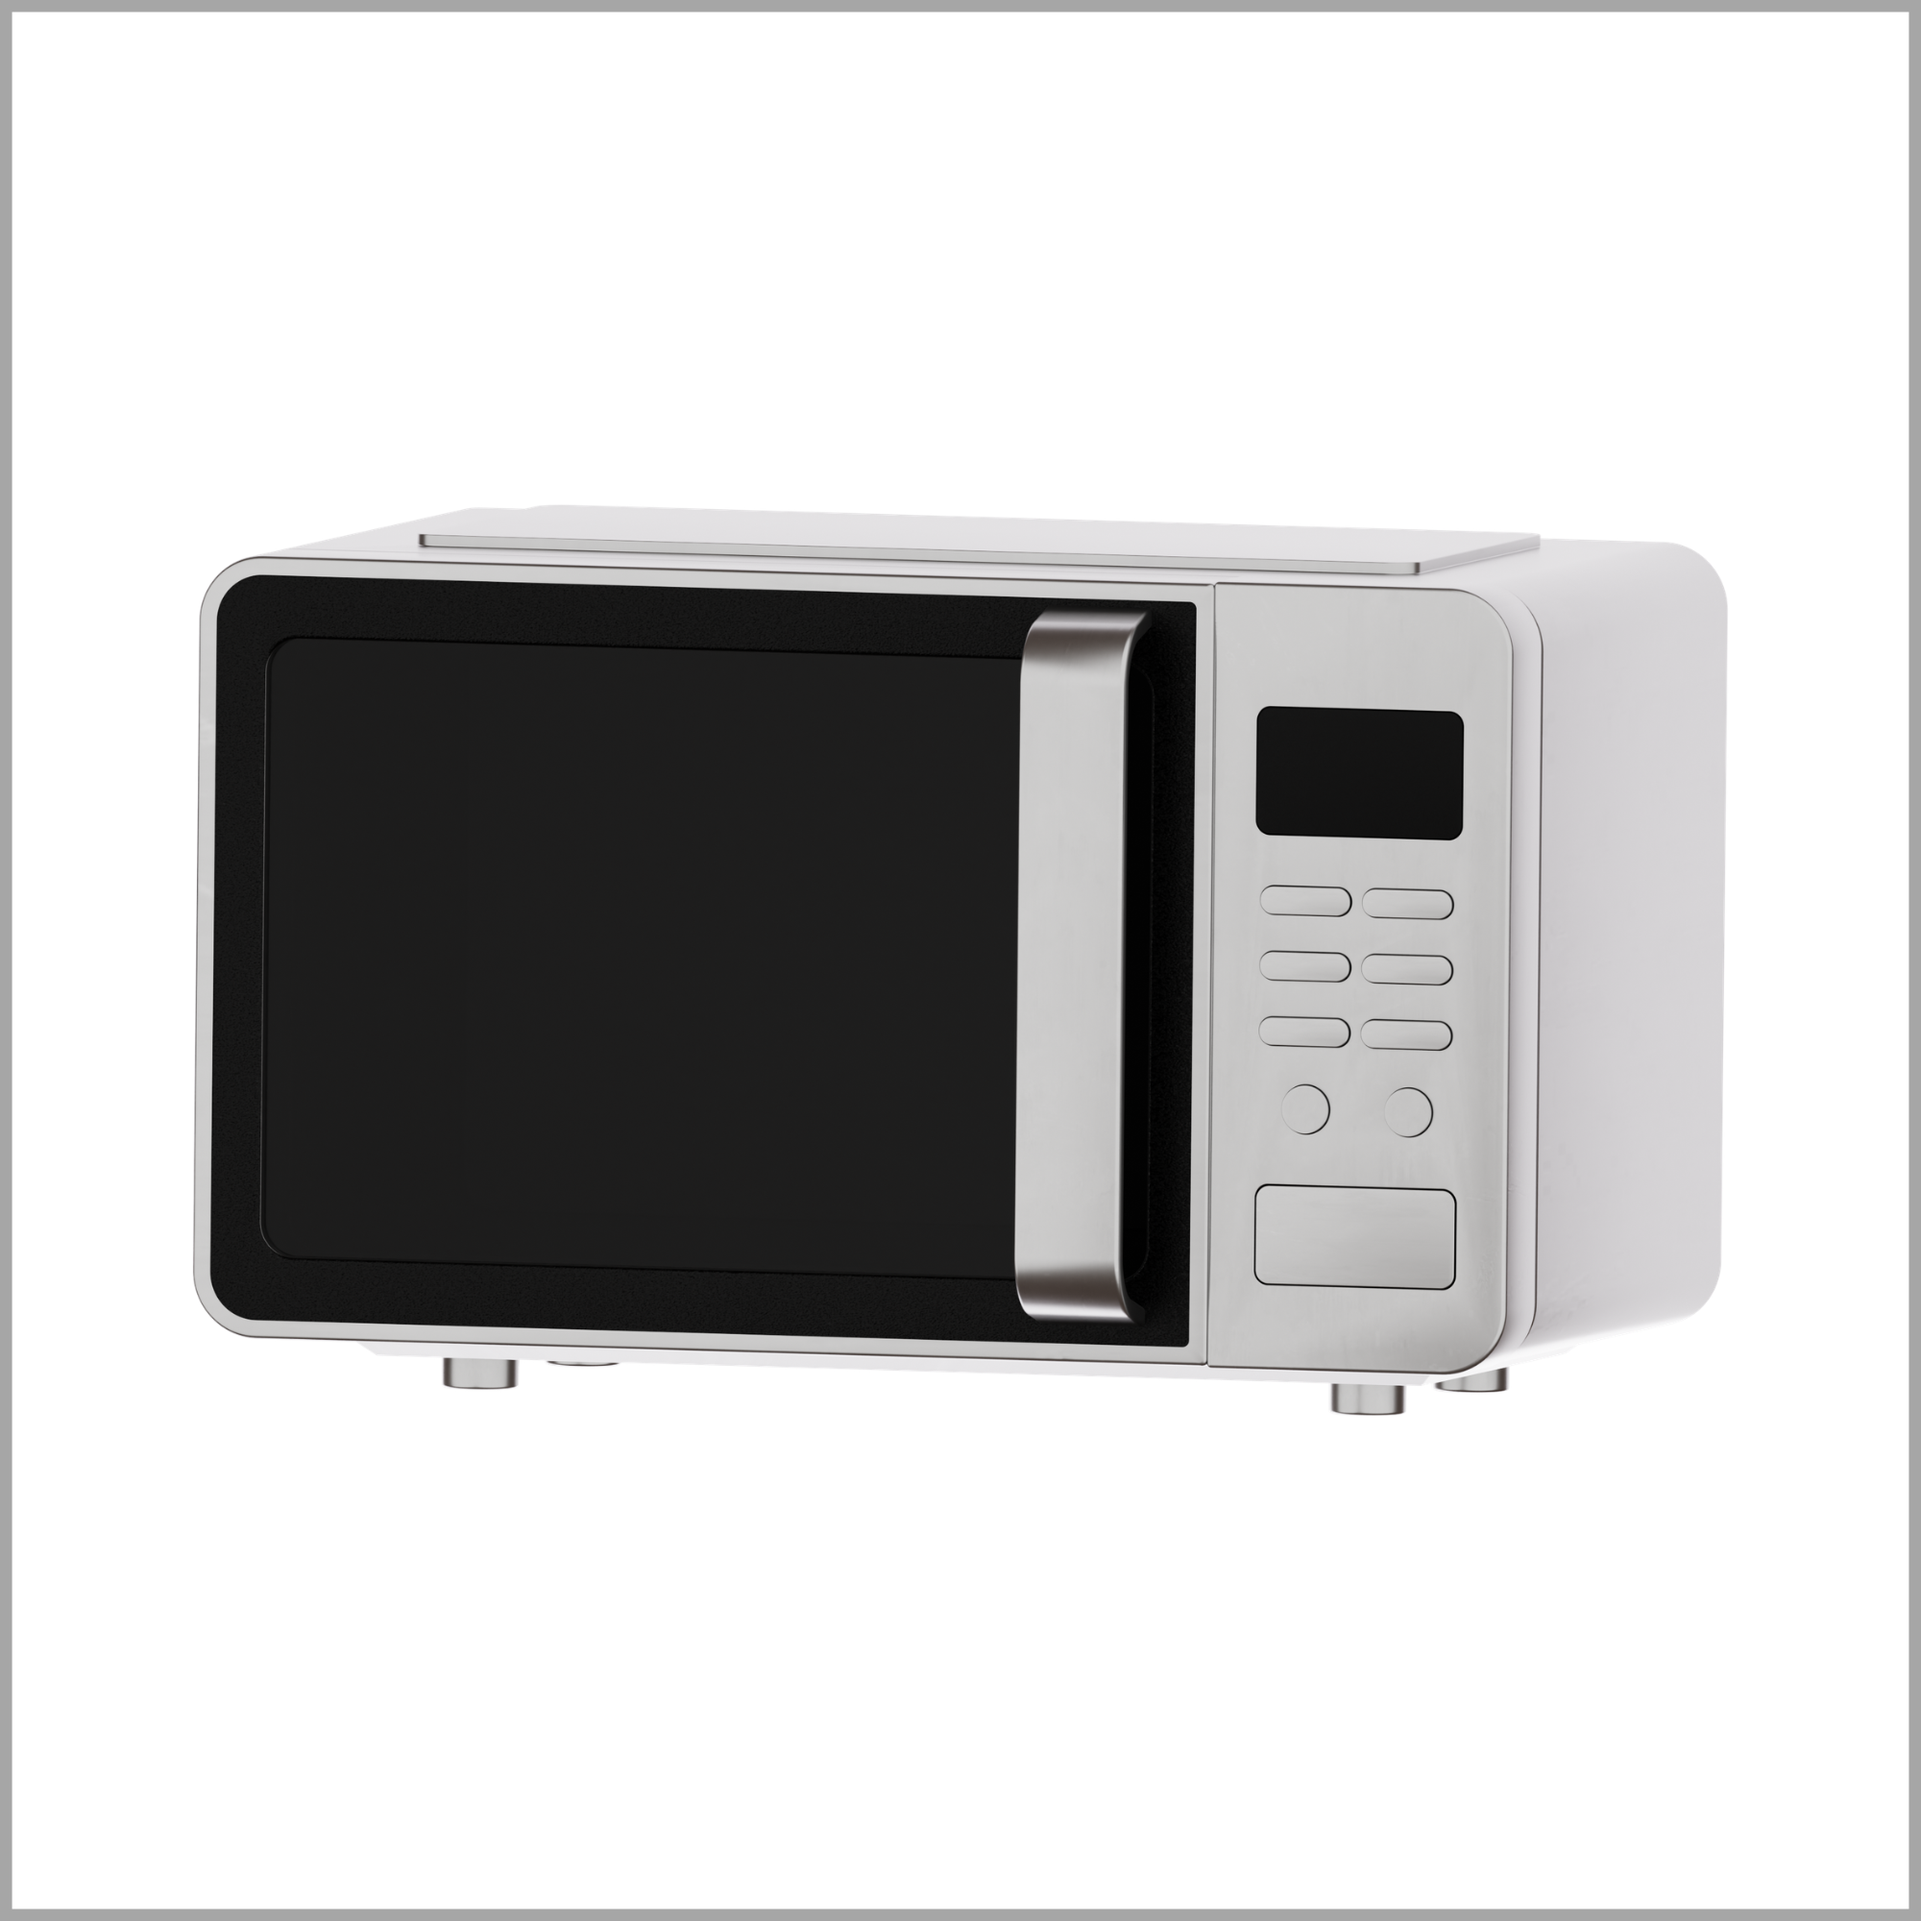
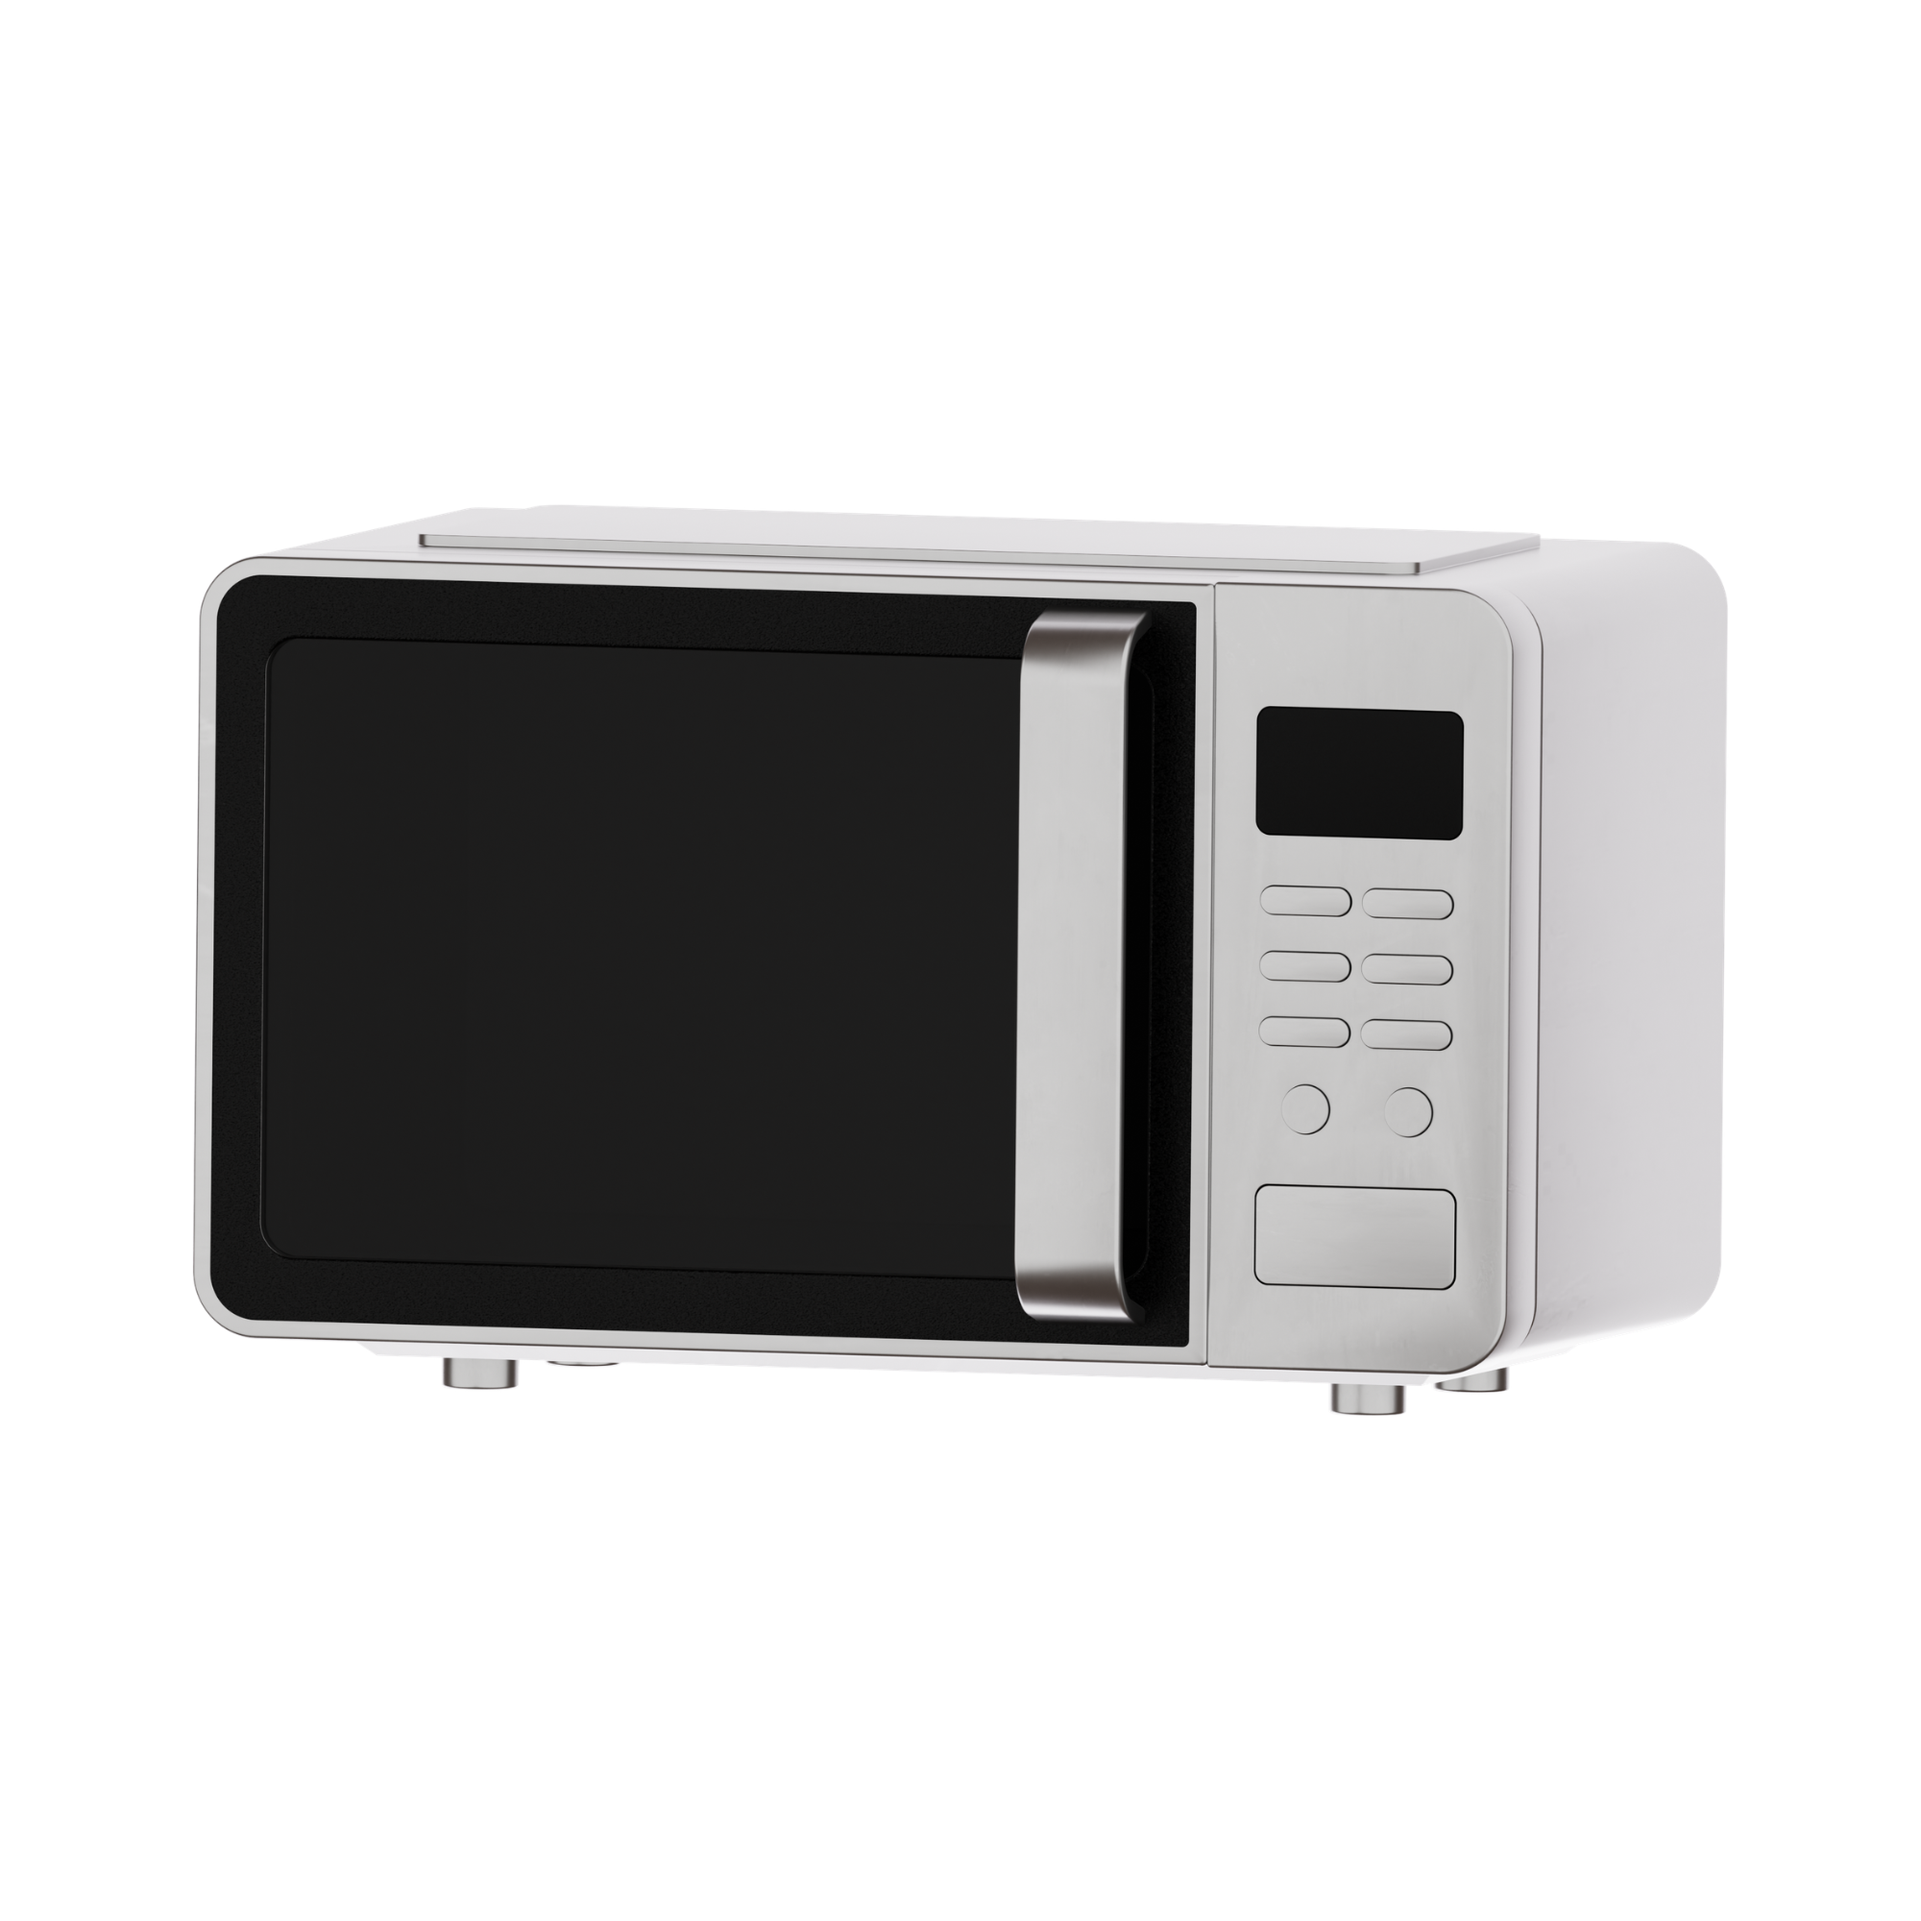
fgh
whatever

Changed region(s): [[0.0, 0.0, 1.0, 1.0]]

diff --git a/index.html b/index.html
@@ -25,7 +25,6 @@
         </div>
     </div>
         <hr class="h-flex">
-            <div class="container"></div>
     <div class="container">
         <div class="row justify-content-start">
             <div class="col-4">
@@ -34,15 +33,19 @@
                 </div>
             </div>
             <div class="col-4">
-                <div class="rect"></div>
+                <div class="rect">
+                    <img src="Fridge1.png" id="fridge">
+                </div>
             </div>
             <div class="col-4">
-                <div class="rect"></div>
+                <div class="rect">
+                    <img src="Oven1.png" id="fridge">
+                </div>
             </div>
         </div>
     </div>
     <div class="container">
-        <div class="row justify-content-start">
+        <div class="row justify-content-start" style="background-color: blue;">
             <div class="col-4">
                 <div class="rect" id="rect-other"></div>
             </div>

diff --git a/styles.css b/styles.css
@@ -56,3 +56,11 @@ img {
     margin-right: 15px;
     margin-left: 15px;
 }
+
+#fridge {
+    width: 220px;
+    height: 180px;
+    border-radius: 20px;
+    margin-right: 15px;
+    margin-left: 15px;
+}
